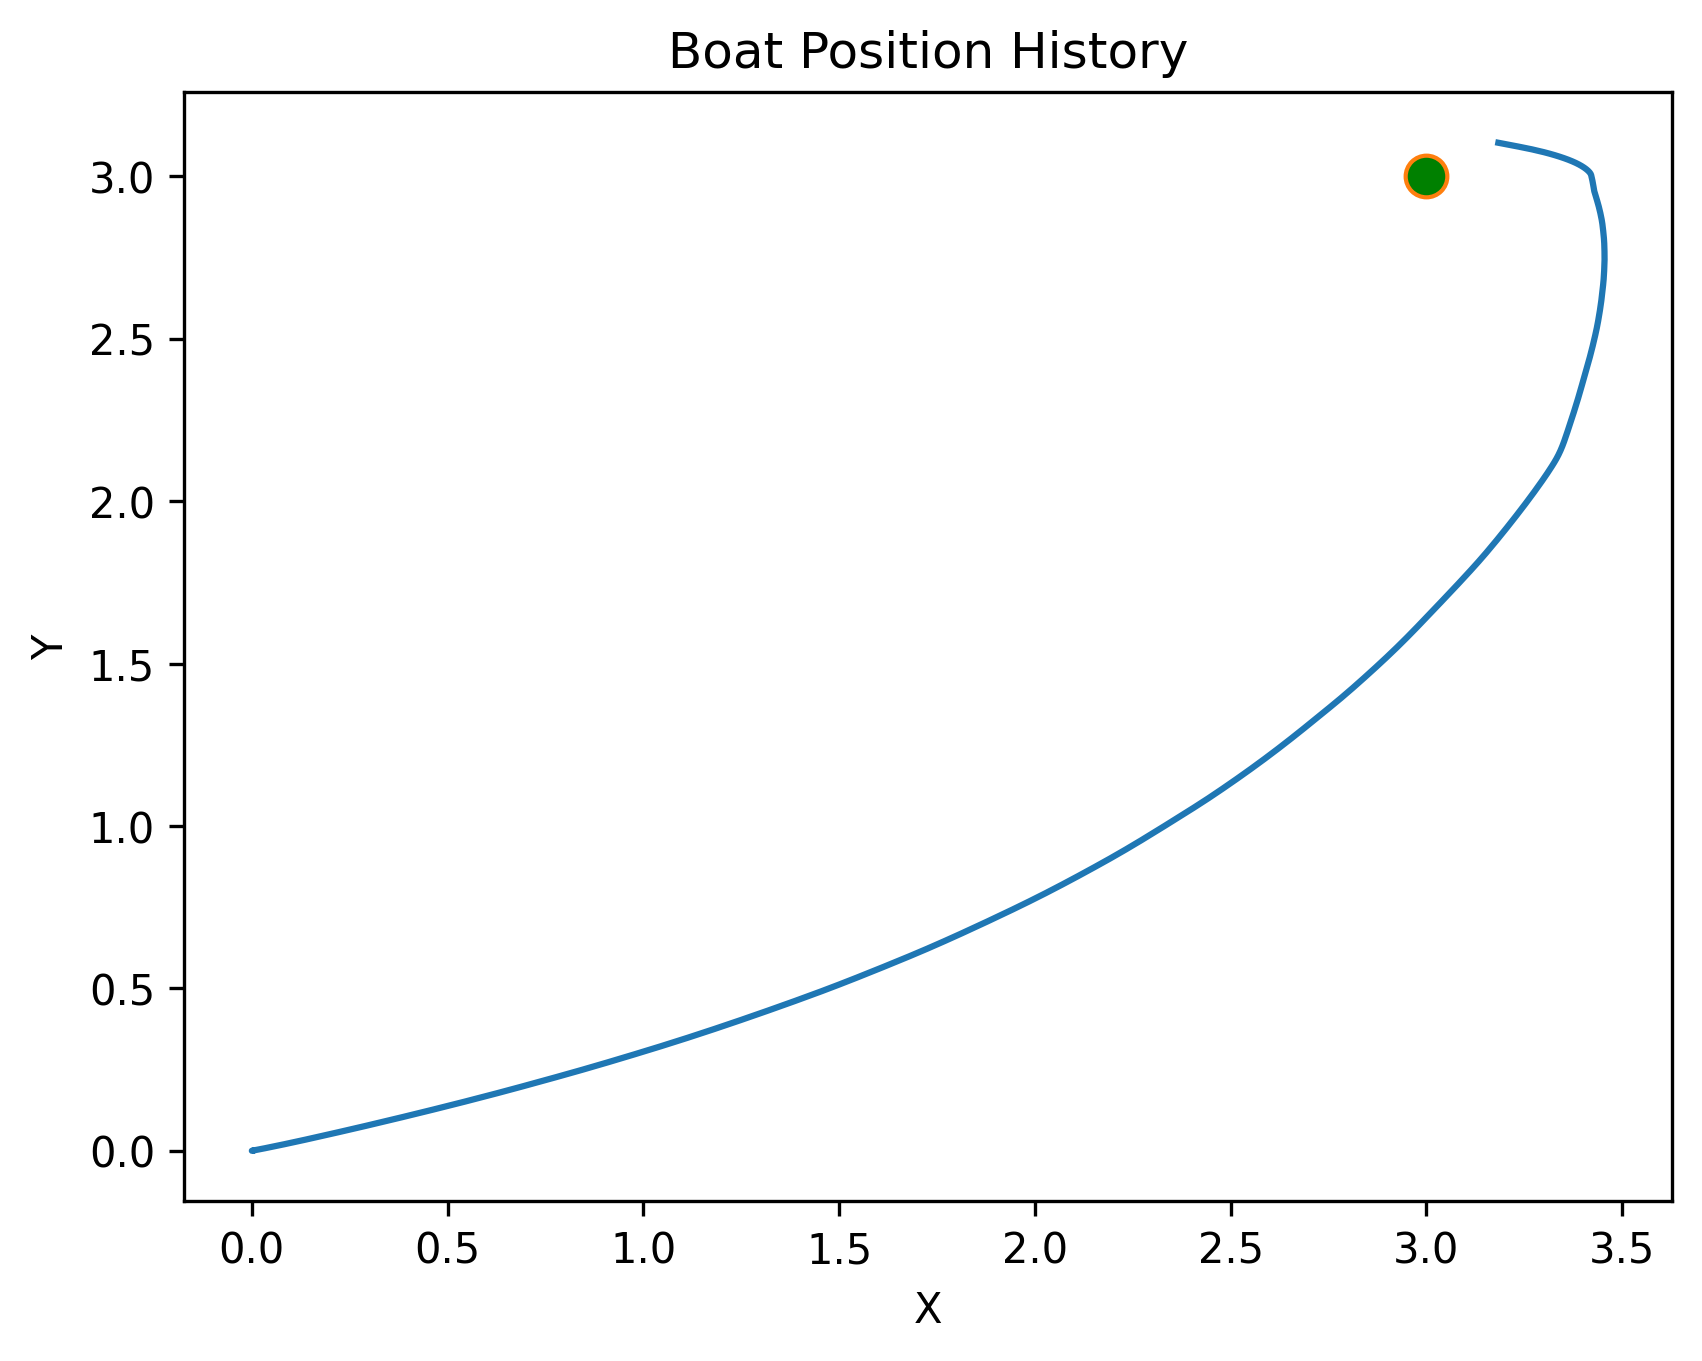
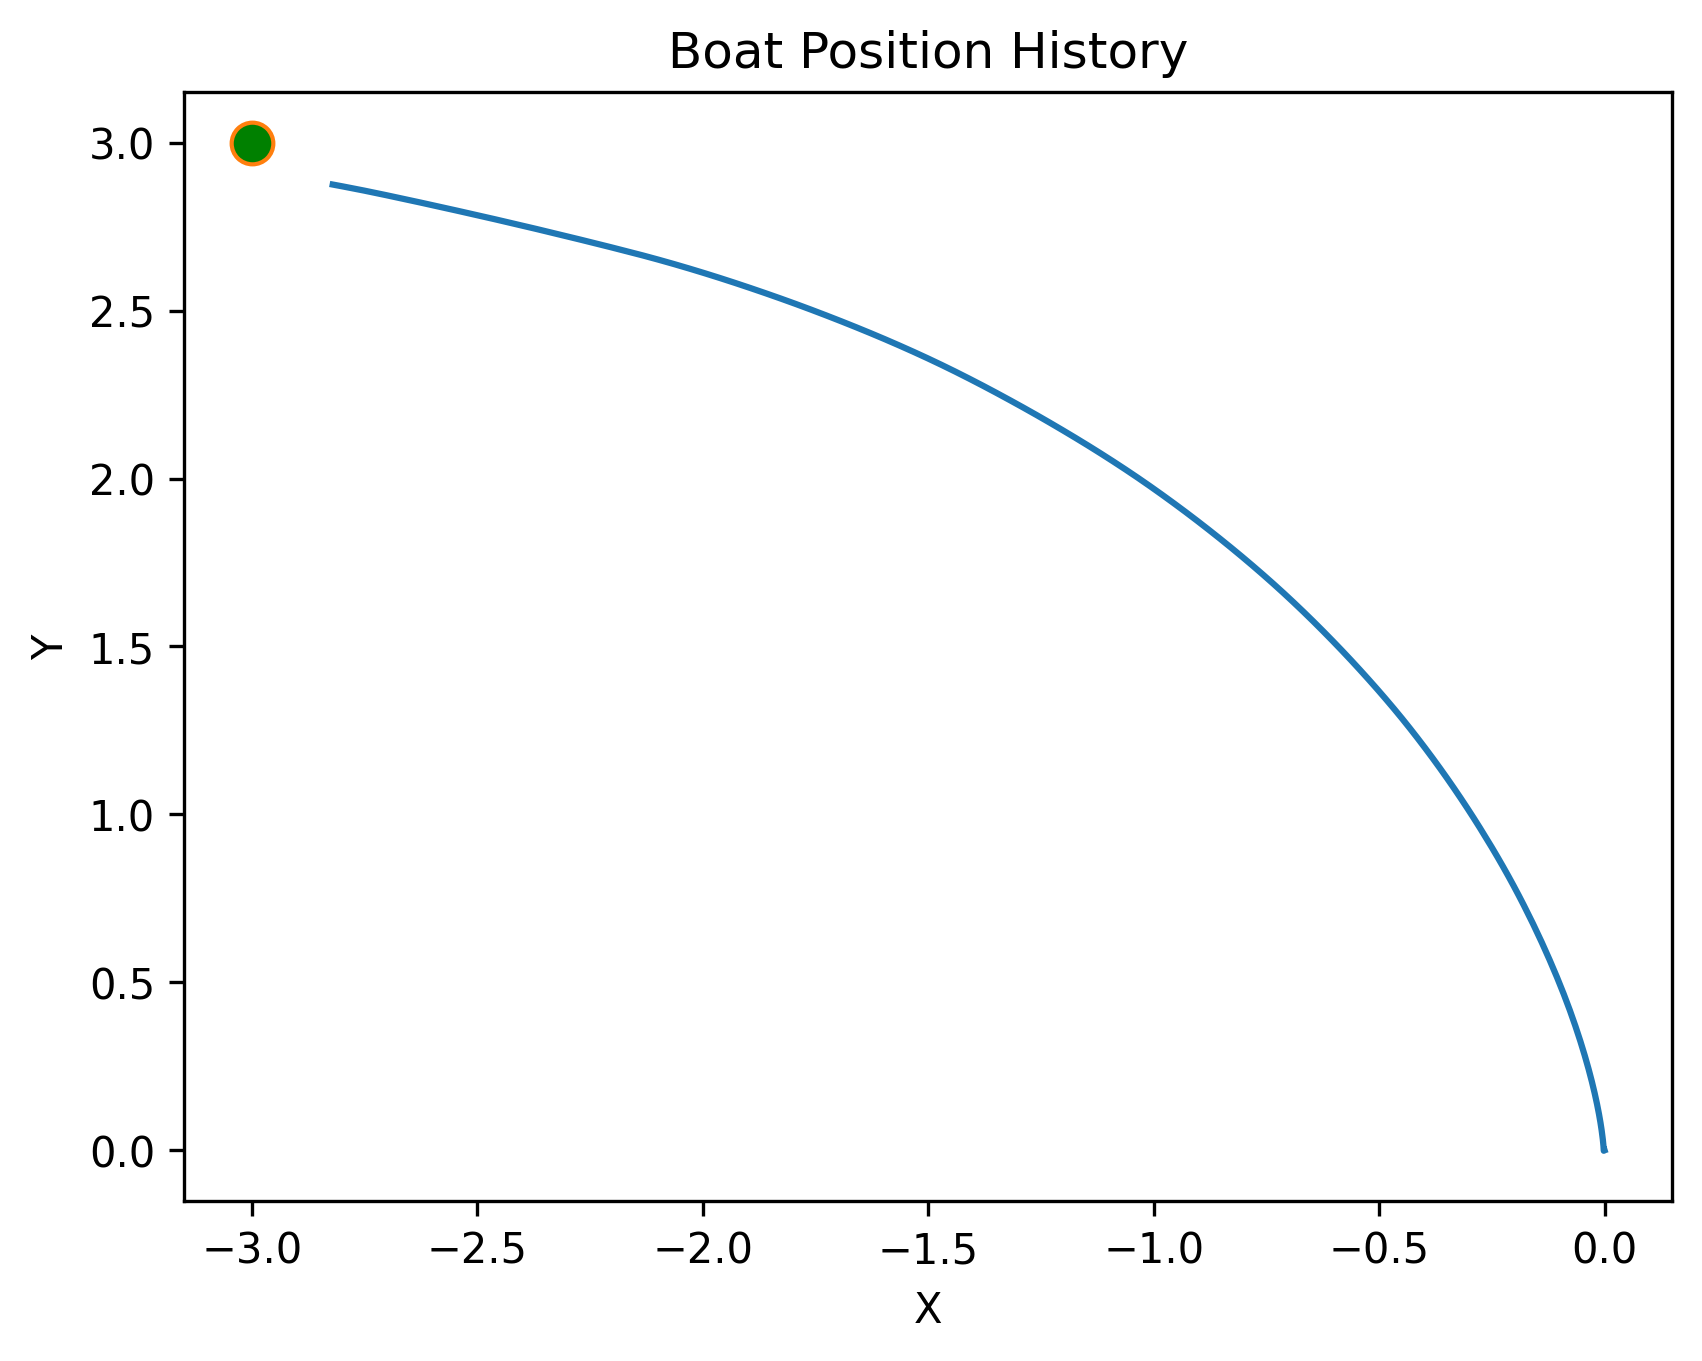
updates

diff --git a/mpc_module.py b/mpc_module.py
@@ -78,13 +78,13 @@ class MPCClass():
         #Objective function
         mterm = (self.reference[0] - self.x)**2 + \
                 (self.reference[1] - self.y)**2 + \
-                100*(self.reference[2] - self.theta)**2 + \
+                70*(self.reference[2] - self.theta)**2 + \
                 (self.reference[3] - self.v)**2 + \
                 (self.reference[4] - self.omega)**2
         #mterm = r**2 + theta**2 + v**2 + omega**2
         lterm = (self.reference[0] - self.x)**2 + \
                 (self.reference[1] - self.y)**2 + \
-                100*(self.reference[2] - self.theta)**2 + \
+                70*(self.reference[2] - self.theta)**2 + \
                 (self.reference[3] - self.v)**2 + \
                 (self.reference[4] - self.omega)**2
         #lterm = r**2 + theta**2 + v**2 + omega**2
@@ -95,6 +95,7 @@ class MPCClass():
             fr=0,
             fl=0
         )
+
         #[4.5240309  0.23942829 0.05027771 0.02493158]
         #Constraints
 

diff --git a/boat_control.py b/boat_control.py
@@ -1,4 +1,4 @@
-from xml.dom import xmlbuilder
+from xml.dom import xmlbuilder
 import numpy as np
 import time
 import math
@@ -134,8 +134,8 @@ class BoatControl():
             # Actuation
             print('Final Fr: ' + str(Fr))
             print('Final Fl: ' + str(Fl))
-            self.sim.addForce(self.boat, [-0.3, -0.2, 0] , [Fr[0], 0, 0]) # Right Motor
-            self.sim.addForce(self.boat, [-0.3, 0.2, 0] , [Fl[0], 0, 0]) # Left Motor
+            self.sim.addForce(self.boat, [-0.3, -0.2, -0.1] , [Fr[0], 0, 0]) # Right Motor
+            self.sim.addForce(self.boat, [-0.3, 0.2, -0.1] , [Fl[0], 0, 0]) # Left Motor
 
 
             self.Fr_data.append(Fr[0])
@@ -146,7 +146,7 @@ class BoatControl():
             self.time_data.append(time_elapsed)
 
             # Time step
-            #time.sleep(Ts)
+            #time.sleep(self.Ts)
             self.client.step()
             #breakpoint()
             #Recollect information
